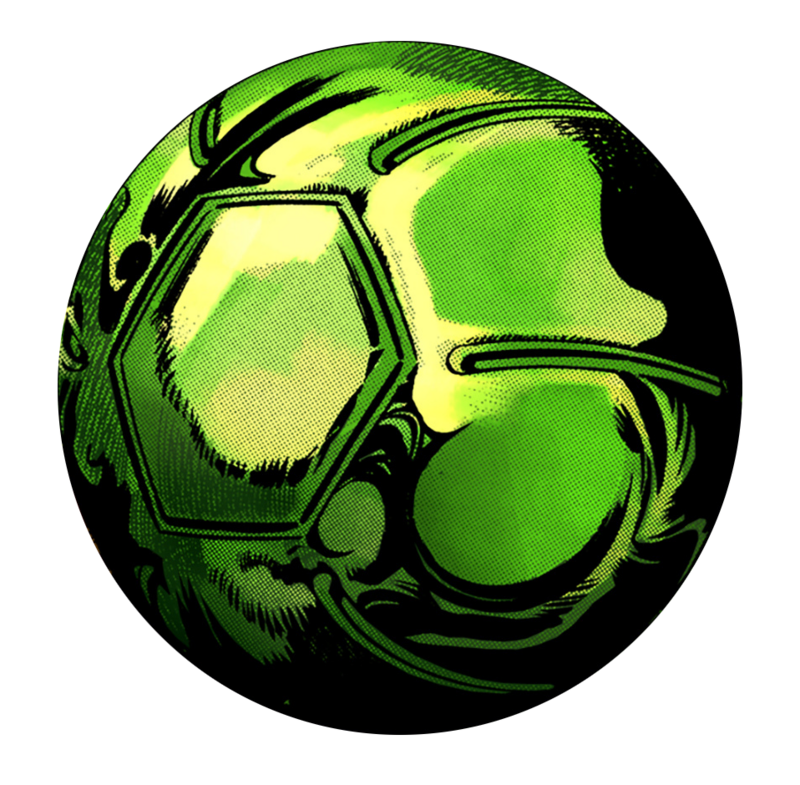
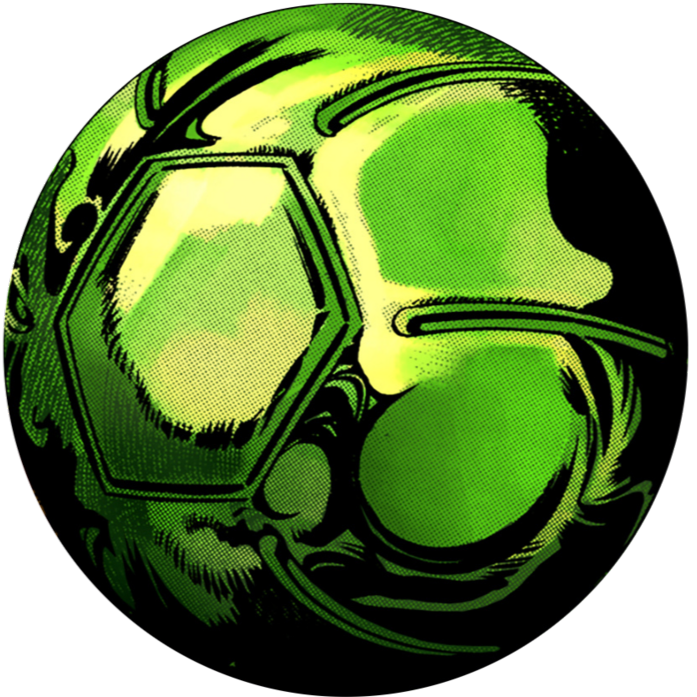
:(

diff --git a/Handout_PinballBase/Source/ModuleGame.cpp b/Handout_PinballBase/Source/ModuleGame.cpp
@@ -8,6 +8,8 @@
 #include <algorithm>
 #include <math.h>
 
+Texture2D steelball = LoadTexture("Steel_Ball.png");
+
 namespace
 {
 	const int   START_BALLS = 3;
@@ -532,9 +534,10 @@ void ModuleGame::Draw()
 	if (ball != NULL)
 	{
 		int bx, by;
+		float br;
+		br = ball->GetRotation();
 		ball->GetPosition(bx, by);
-		DrawCircle(bx, by, (float)ball_radius, LIGHTGRAY);
-		DrawCircle(bx - ball_radius / 3, by - ball_radius / 3, ball_radius / 3.0f, WHITE);
+		DrawTexturePro(steelball, { 0, 0, (float)steelball.width, (float)steelball.height }, { (float)bx, (float)by, (float)ball_radius*2, (float)ball_radius*2 }, { 50, 50 }, br, WHITE); ///////////bola d'acer
 	}
 
 	// HUD

diff --git a/Handout_PinballBase/Source/Main.cpp b/Handout_PinballBase/Source/Main.cpp
@@ -22,6 +22,8 @@ int main(int argc, char ** argv)
 	main_states state = MAIN_CREATION;
 	Application* App = NULL;
 
+	
+
 	while (state != MAIN_EXIT)
 	{
 		switch (state)

diff --git a/Handout_PinballBase/Source/ModuleRender.h b/Handout_PinballBase/Source/ModuleRender.h
@@ -3,7 +3,6 @@
 #include "Globals.h"
 
 #include <limits.h>
-
 class ModuleRender : public Module
 {
 public:
